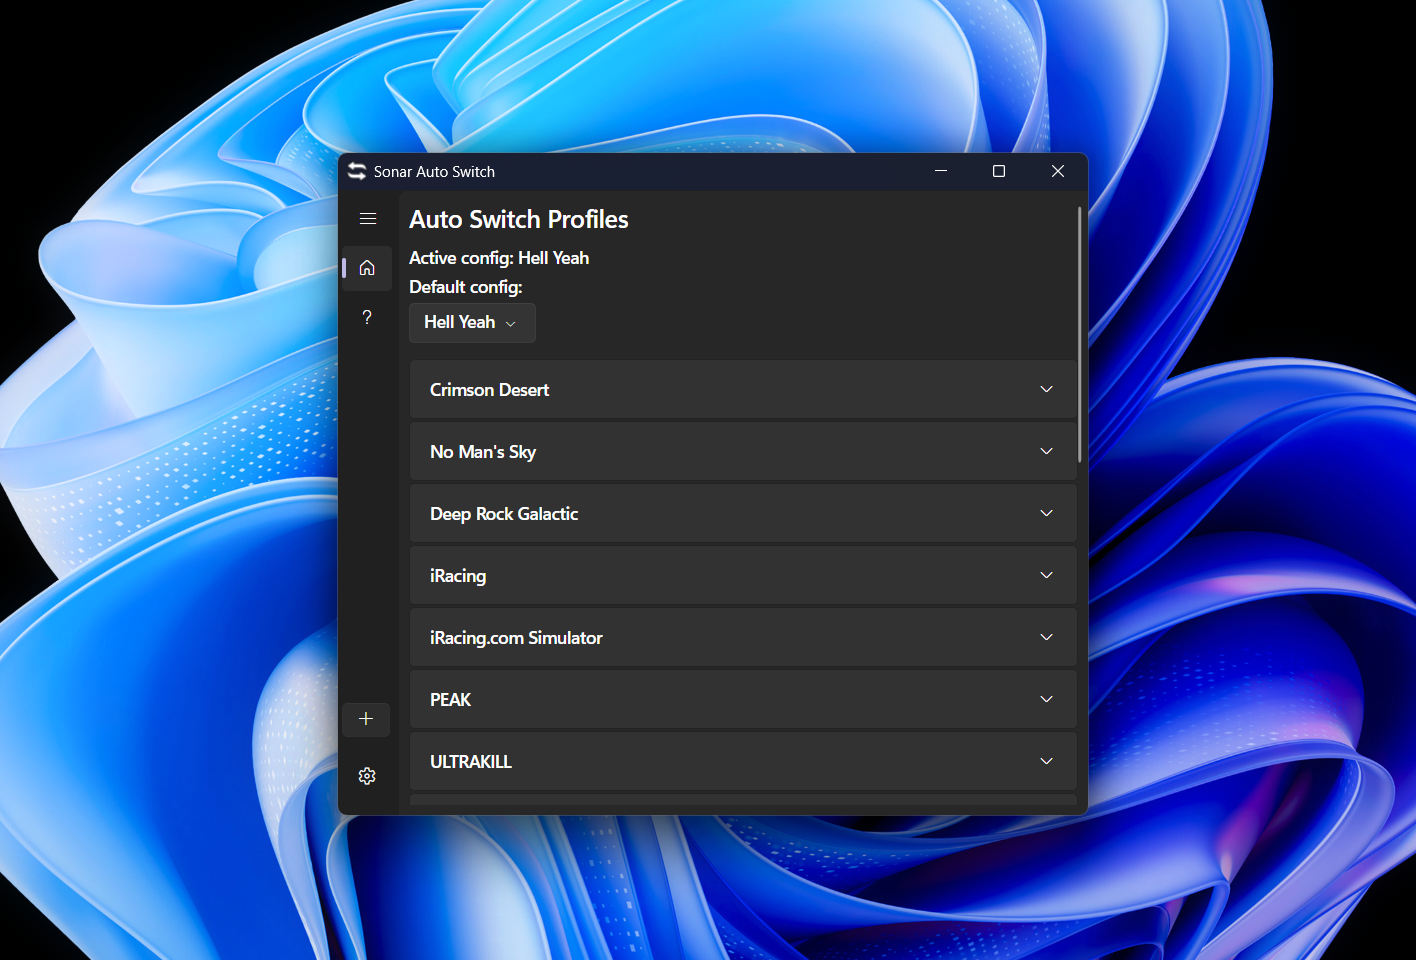
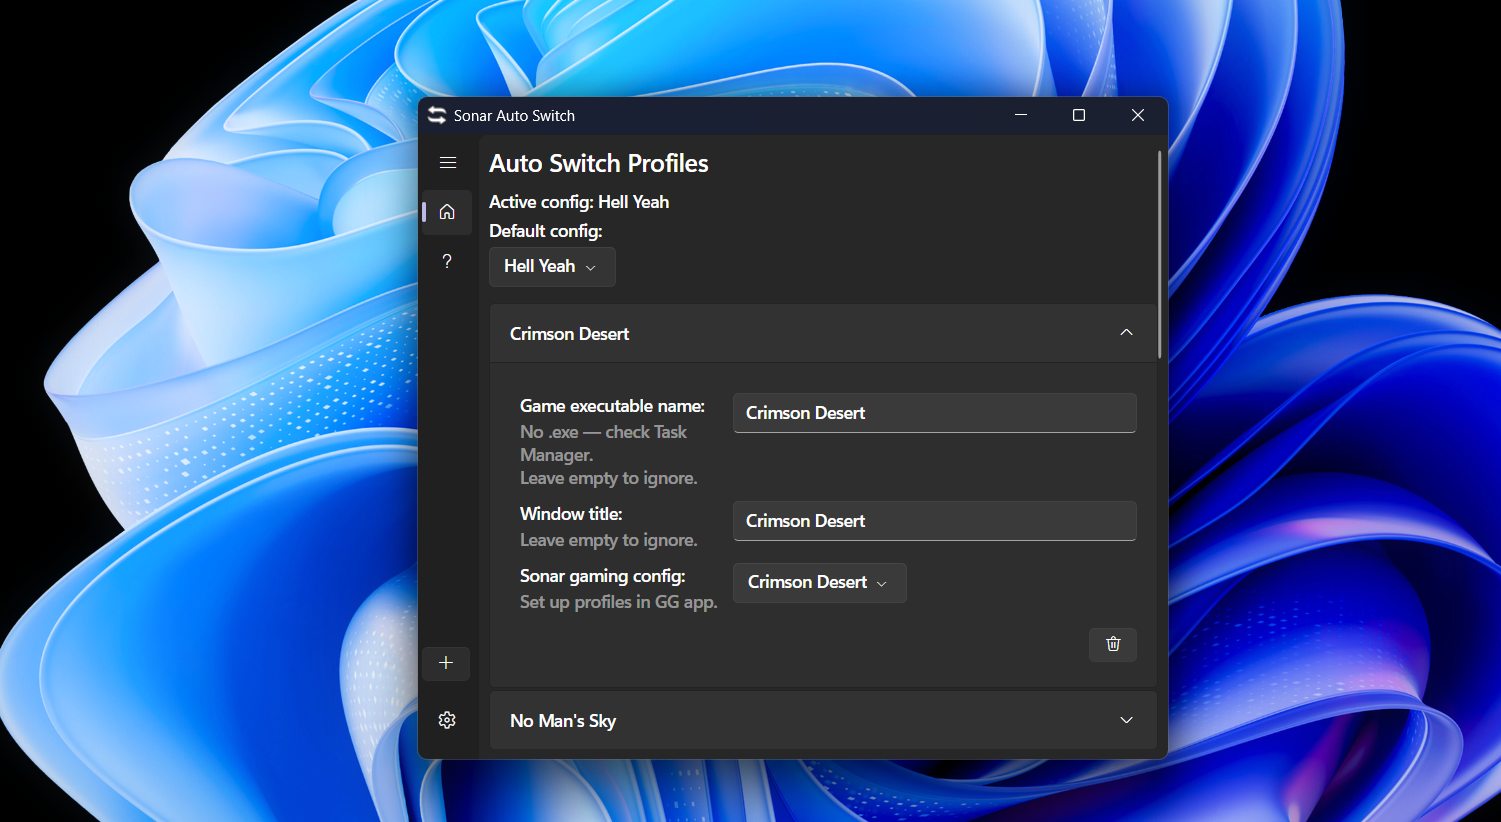
docs: remove em dashes, update screenshot

diff --git a/README.md b/README.md
@@ -1,4 +1,4 @@
-# Sonar.AutoSwitch — Continued
+# Sonar.AutoSwitch, Continued
 
 A continuation of [adirh3/Sonar.AutoSwitch](https://github.com/adirh3/Sonar.AutoSwitch).
 Automatically switches your SteelSeries Sonar gaming audio profile when a game comes into focus.
@@ -9,10 +9,10 @@ Automatically switches your SteelSeries Sonar gaming audio profile when a game c
 
 1. Download `Sonar.AutoSwitch.exe` from the [latest release](https://github.com/janikithup/SonarAutoSwitch-Continued/releases/latest).
 2. Run it — it sits in the system tray.
-3. Set a **Default config** — this applies when no game profile matches.
+3. Set a **Default config**, which applies when no game profile matches.
 4. Add a profile per game using the **+** button. Click a profile to expand it and set:
-   - **Executable name** — the process name without `.exe` (check Task Manager). Autocompletes from running processes.
-   - **Window title** — use this instead for games like Valorant where the exe can't be read.
+   - **Executable name**: the process name without `.exe` (check Task Manager). Autocompletes from running processes.
+   - **Window title**: use this instead for games like Valorant where the exe can't be read.
 5. That's it. Switch to a game and Sonar switches with it.
 
 ## Build